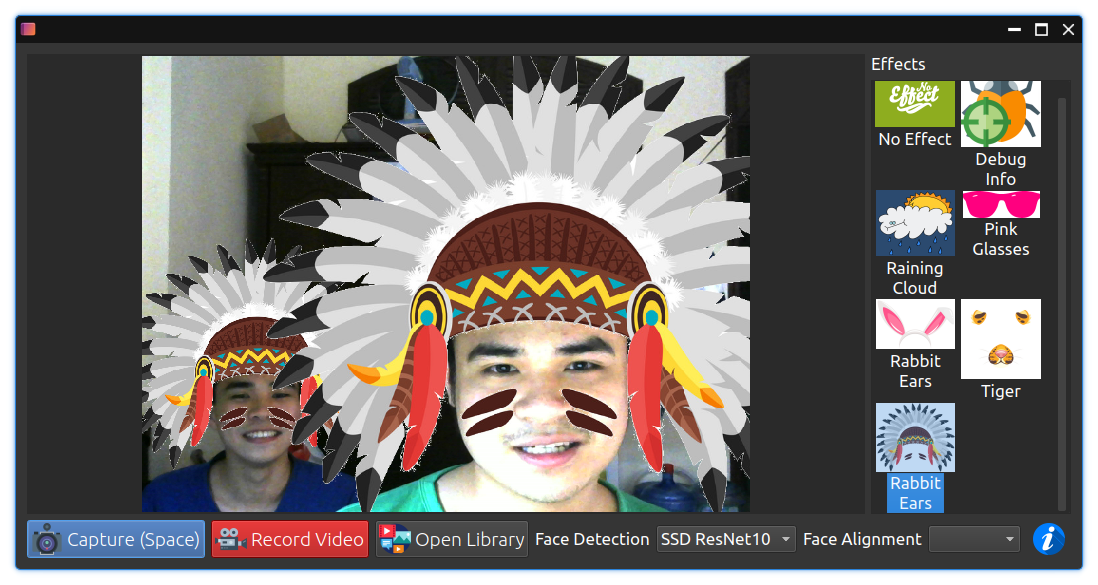
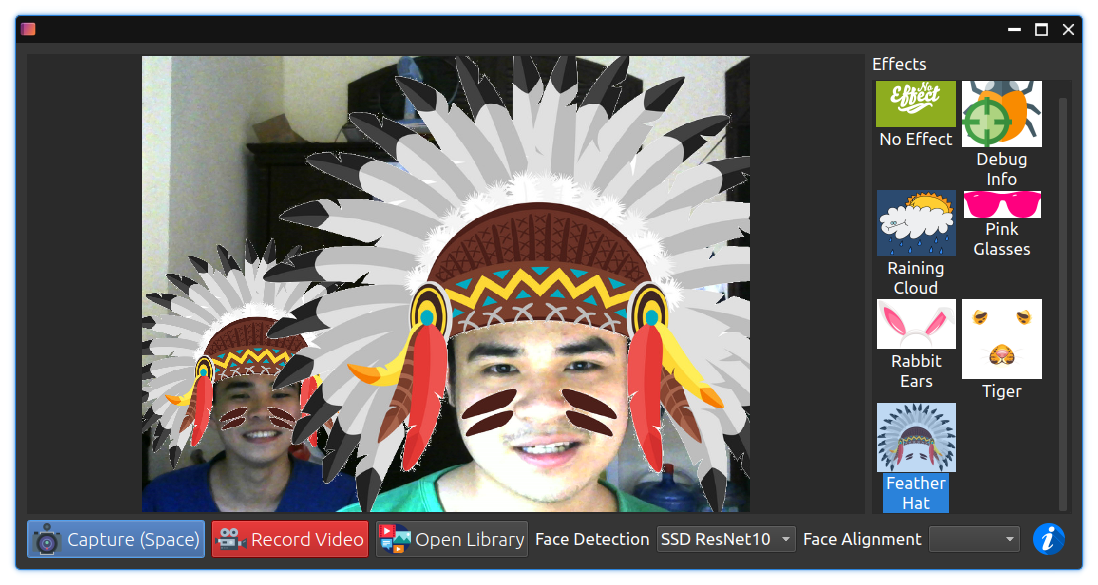
Correct effect name

diff --git a/src/effects/effect_feather_hat.cpp b/src/effects/effect_feather_hat.cpp
@@ -2,7 +2,7 @@
 #include "effect_feather_hat.h"
 
 EffectFeatherHat::EffectFeatherHat()
-    : ImageEffect("Rabbit Ears", "images/effects/feather_hat/icon.png") {
+    : ImageEffect("Feather Hat", "images/effects/feather_hat/icon.png") {
 
     feather_hat_animation.setFPS(0);
     feather_hat_animation.addFrame("images/effects/feather_hat/feather_hat.png");
